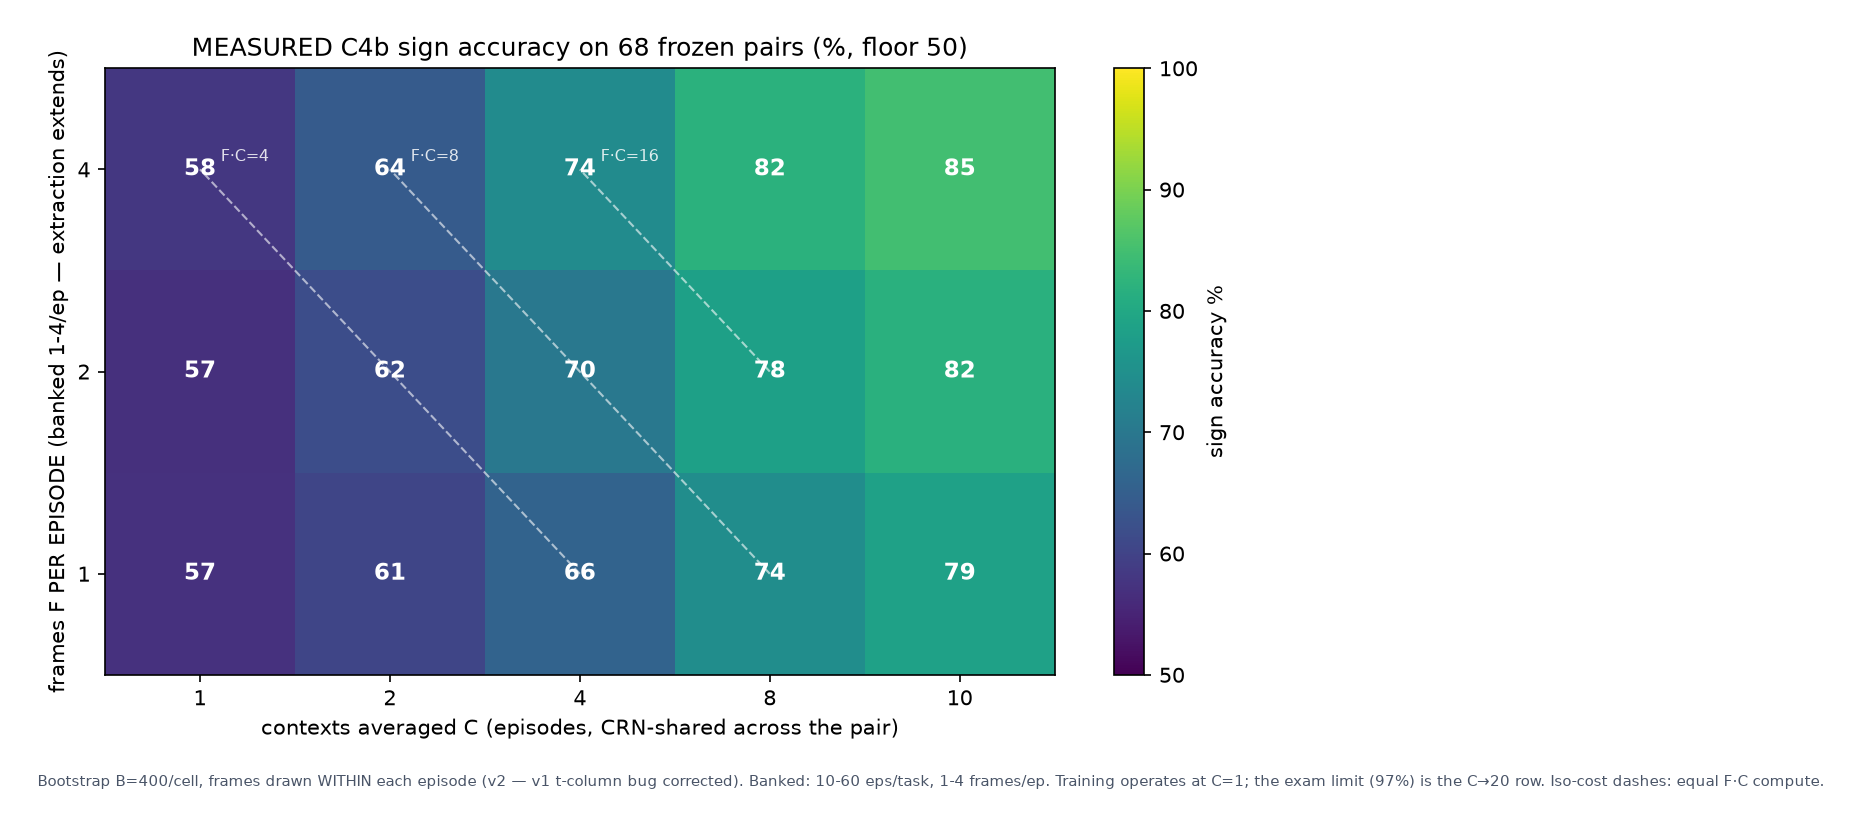
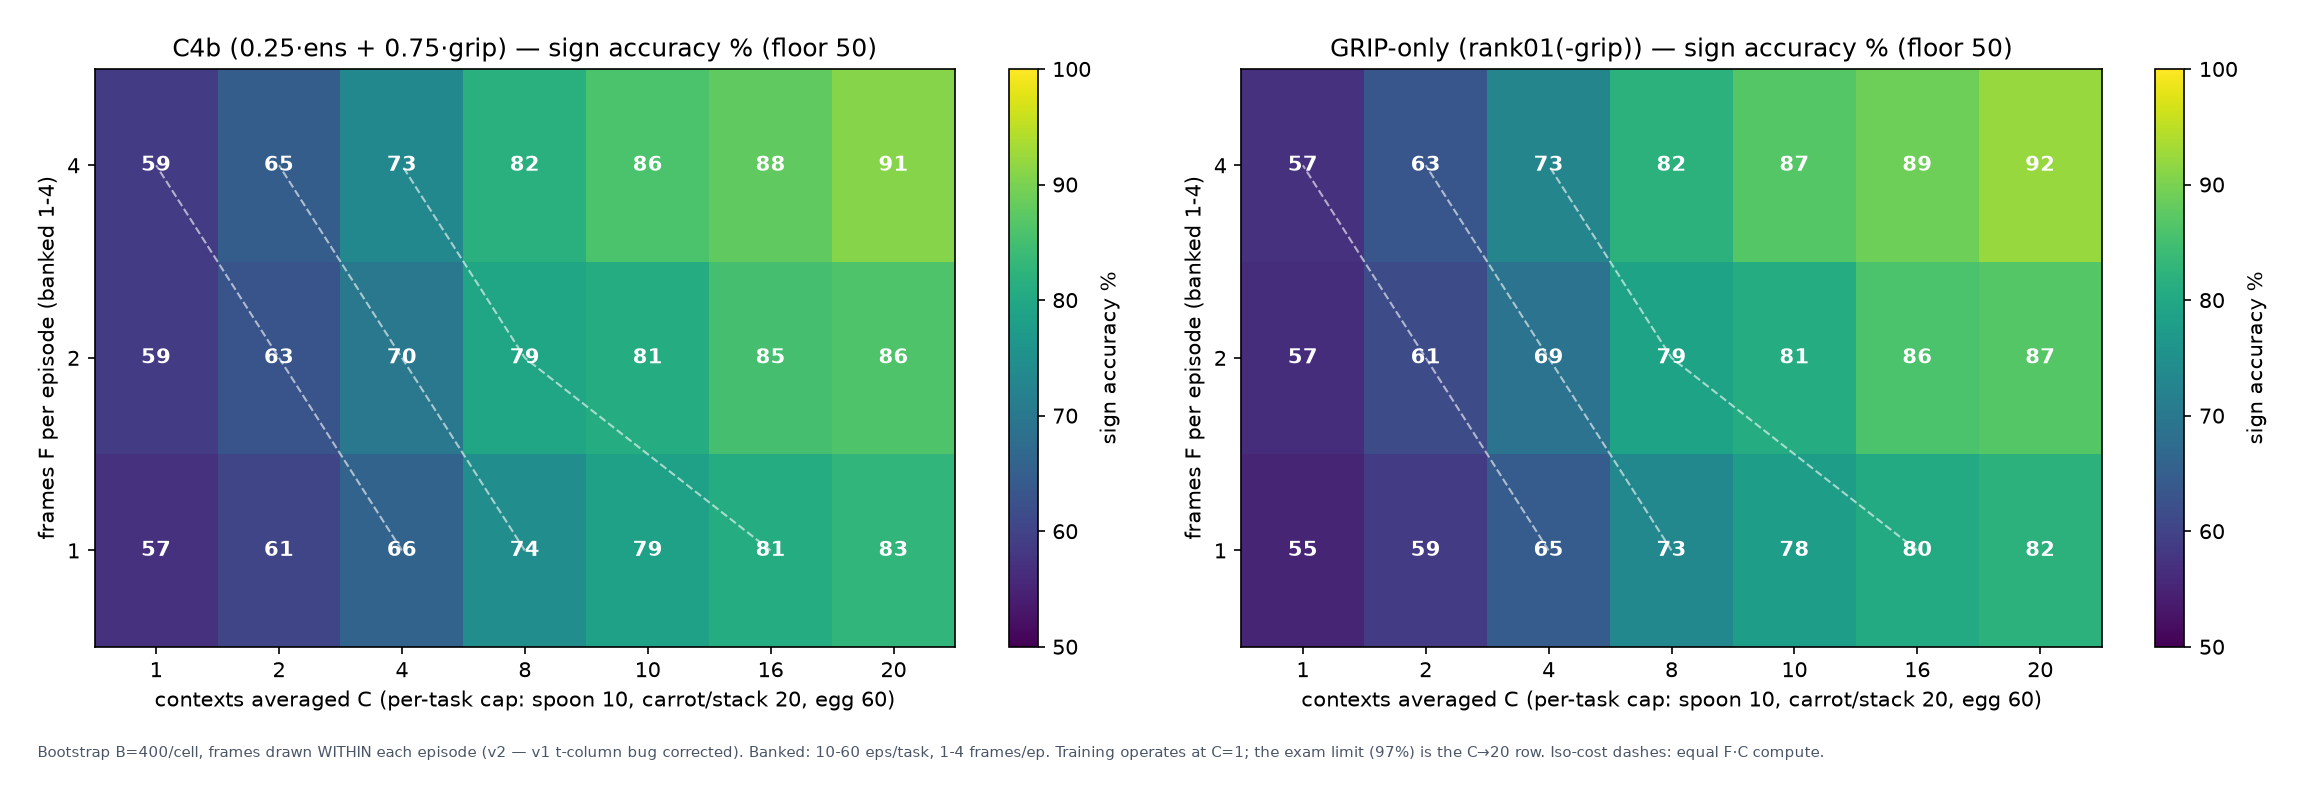
fc grid: C extended to 20, grip-only panel added

diff --git a/scripts/make_fc_grid.py b/scripts/make_fc_grid.py
@@ -21,7 +21,7 @@ import reward_bakeoff_v3 as bk  # noqa: E402
 RNG = np.random.default_rng(7)
 B = 400
 F_GRID = [1, 2, 4]
-C_GRID = [1, 2, 4, 8, 10]
+C_GRID = [1, 2, 4, 8, 10, 16, 20]
 
 feats = bk.load_features()
 ens = bk.VerifierEnsemble("results/checkpoints/verifier_reward_ensemble_4f.json")
@@ -53,10 +53,11 @@ covered = [p for p in pairs if p["task"] in states
 print(f"{len(covered)} covered pairs")
 
 r01 = bk.rank01
-acc = np.zeros((len(F_GRID), len(C_GRID)))
+acc = {"c4b": np.zeros((len(F_GRID), len(C_GRID))), "grip": np.zeros((len(F_GRID), len(C_GRID)))}
 for fi, F in enumerate(F_GRID):
     for ci, C in enumerate(C_GRID):
-        hits = tot = 0
+        hits_d = {"c4b": 0, "grip": 0}
+        tot_d = {"c4b": 0, "grip": 0}
         for _ in range(B):
             # per task: one shared (episode, frame) draw — CRN across the whole
             # candidate set, mirroring a GRPO group sharing its contexts
@@ -71,50 +72,51 @@ for fi, F in enumerate(F_GRID):
                     gsel.append(np.nanmean(s["G"][:, e, :][:, fp], axis=1))
                 z = np.nanmean(np.stack(zsel), axis=0)
                 g = np.nanmean(np.stack(gsel), axis=0)
-                per_task_scores[t] = 0.25 * r01(z) + 0.75 * r01(-g)
+                per_task_scores[t] = {"c4b": 0.25 * r01(z) + 0.75 * r01(-g), "grip": r01(-g)}
             for p in covered:
                 s = states[p["task"]]
-                sc = per_task_scores[p["task"]]
-                sb = sc[s["ki"][bk.norm_key(p["better"])]]
-                sw = sc[s["ki"][bk.norm_key(p["worse"])]]
-                if not (np.isnan(sb) or np.isnan(sw)):
-                    hits += int(sb > sw)
-                    tot += 1
-        acc[fi, ci] = 100 * hits / tot
-        print(f"F={F} C={C}: {acc[fi, ci]:.1f}%")
+                for rw in ("c4b", "grip"):
+                    sc = per_task_scores[p["task"]][rw]
+                    sb = sc[s["ki"][bk.norm_key(p["better"])]]
+                    sw = sc[s["ki"][bk.norm_key(p["worse"])]]
+                    if not (np.isnan(sb) or np.isnan(sw)):
+                        hits_d[rw] += int(sb > sw)
+                        tot_d[rw] += 1
+        for rw in ("c4b", "grip"):
+            acc[rw][fi, ci] = 100 * hits_d[rw] / tot_d[rw]
+        print(f"F={F} C={C}: c4b {acc['c4b'][fi, ci]:.1f}%  grip {acc['grip'][fi, ci]:.1f}%")
 
 import matplotlib
 
 matplotlib.use("Agg")
 import matplotlib.pyplot as plt
 
-fig, ax = plt.subplots(figsize=(8.6, 5.2))
-im = ax.imshow(acc, origin="lower", cmap="viridis", vmin=50, vmax=100, aspect="auto")
-for fi, F in enumerate(F_GRID):
-    for ci, C in enumerate(C_GRID):
-        ax.text(ci, fi, f"{acc[fi, ci]:.0f}", ha="center", va="center",
-                color="white", fontsize=11, fontweight="bold")
-ax.set_xticks(range(len(C_GRID)))
-ax.set_xticklabels(C_GRID)
-ax.set_yticks(range(len(F_GRID)))
-ax.set_yticklabels(F_GRID)
-ax.set_xlabel("contexts averaged C (episodes, CRN-shared across the pair)")
-ax.set_ylabel("frames F PER EPISODE (banked 1-4/ep — extraction extends)")
-ax.set_title("MEASURED C4b sign accuracy on 68 frozen pairs (%, floor 50)")
-# iso-cost guides: cells with equal F*C
-for cost in [4, 8, 16]:
-    pts = [(ci, fi) for fi, F in enumerate(F_GRID) for ci, C in enumerate(C_GRID) if F * C == cost]
-    if len(pts) > 1:
-        ax.plot([p[0] for p in pts], [p[1] for p in pts], "w--", lw=1, alpha=0.6)
-        ax.annotate(f"F·C={cost}", pts[-1], textcoords="offset points", xytext=(10, 4),
-                    color="white", fontsize=7.5, alpha=0.85)
-fig.colorbar(im, label="sign accuracy %")
+fig, axes = plt.subplots(1, 2, figsize=(15.5, 5.0))
+for ax, rw, name in [(axes[0], "c4b", "C4b (0.25·ens + 0.75·grip)"), (axes[1], "grip", "GRIP-only (rank01(-grip))")]:
+    A = acc[rw]
+    im = ax.imshow(A, origin="lower", cmap="viridis", vmin=50, vmax=100, aspect="auto")
+    for fi, F in enumerate(F_GRID):
+        for ci, C in enumerate(C_GRID):
+            ax.text(ci, fi, f"{A[fi, ci]:.0f}", ha="center", va="center",
+                    color="white", fontsize=10, fontweight="bold")
+    ax.set_xticks(range(len(C_GRID)))
+    ax.set_xticklabels(C_GRID)
+    ax.set_yticks(range(len(F_GRID)))
+    ax.set_yticklabels(F_GRID)
+    ax.set_xlabel("contexts averaged C (per-task cap: spoon 10, carrot/stack 20, egg 60)")
+    ax.set_ylabel("frames F per episode (banked 1-4)")
+    ax.set_title(f"{name} — sign accuracy % (floor 50)")
+    for cost in [4, 8, 16]:
+        pts = [(ci, fi) for fi, F in enumerate(F_GRID) for ci, C in enumerate(C_GRID) if F * C == cost]
+        if len(pts) > 1:
+            ax.plot([p[0] for p in pts], [p[1] for p in pts], "w--", lw=1, alpha=0.6)
+    fig.colorbar(im, ax=ax, label="sign accuracy %")
 fig.text(0.01, 0.01, "Bootstrap B=400/cell, frames drawn WITHIN each episode (v2 — v1 t-column bug corrected). Banked: 10-60 eps/task, 1-4 frames/ep. "
          "Training operates at C=1; the exam limit (97%) is the C→20 row. Iso-cost dashes: equal F·C compute.",
          fontsize=7, color="#4a5568")
 fig.tight_layout(rect=[0, 0.04, 1, 1])
 fig.savefig("results/charts/fc_grid.png", dpi=150, bbox_inches="tight", pad_inches=0.25)
 print("chart -> results/charts/fc_grid.png")
-json.dump({"F_grid": F_GRID, "C_grid": C_GRID, "acc": acc.tolist(), "B": B,
+json.dump({"F_grid": F_GRID, "C_grid": C_GRID, "acc_c4b": acc["c4b"].tolist(), "acc_grip": acc["grip"].tolist(), "B": B,
            "pairs": len(covered)},
           open("results/analysis/fc_grid.json", "w"), indent=1)
